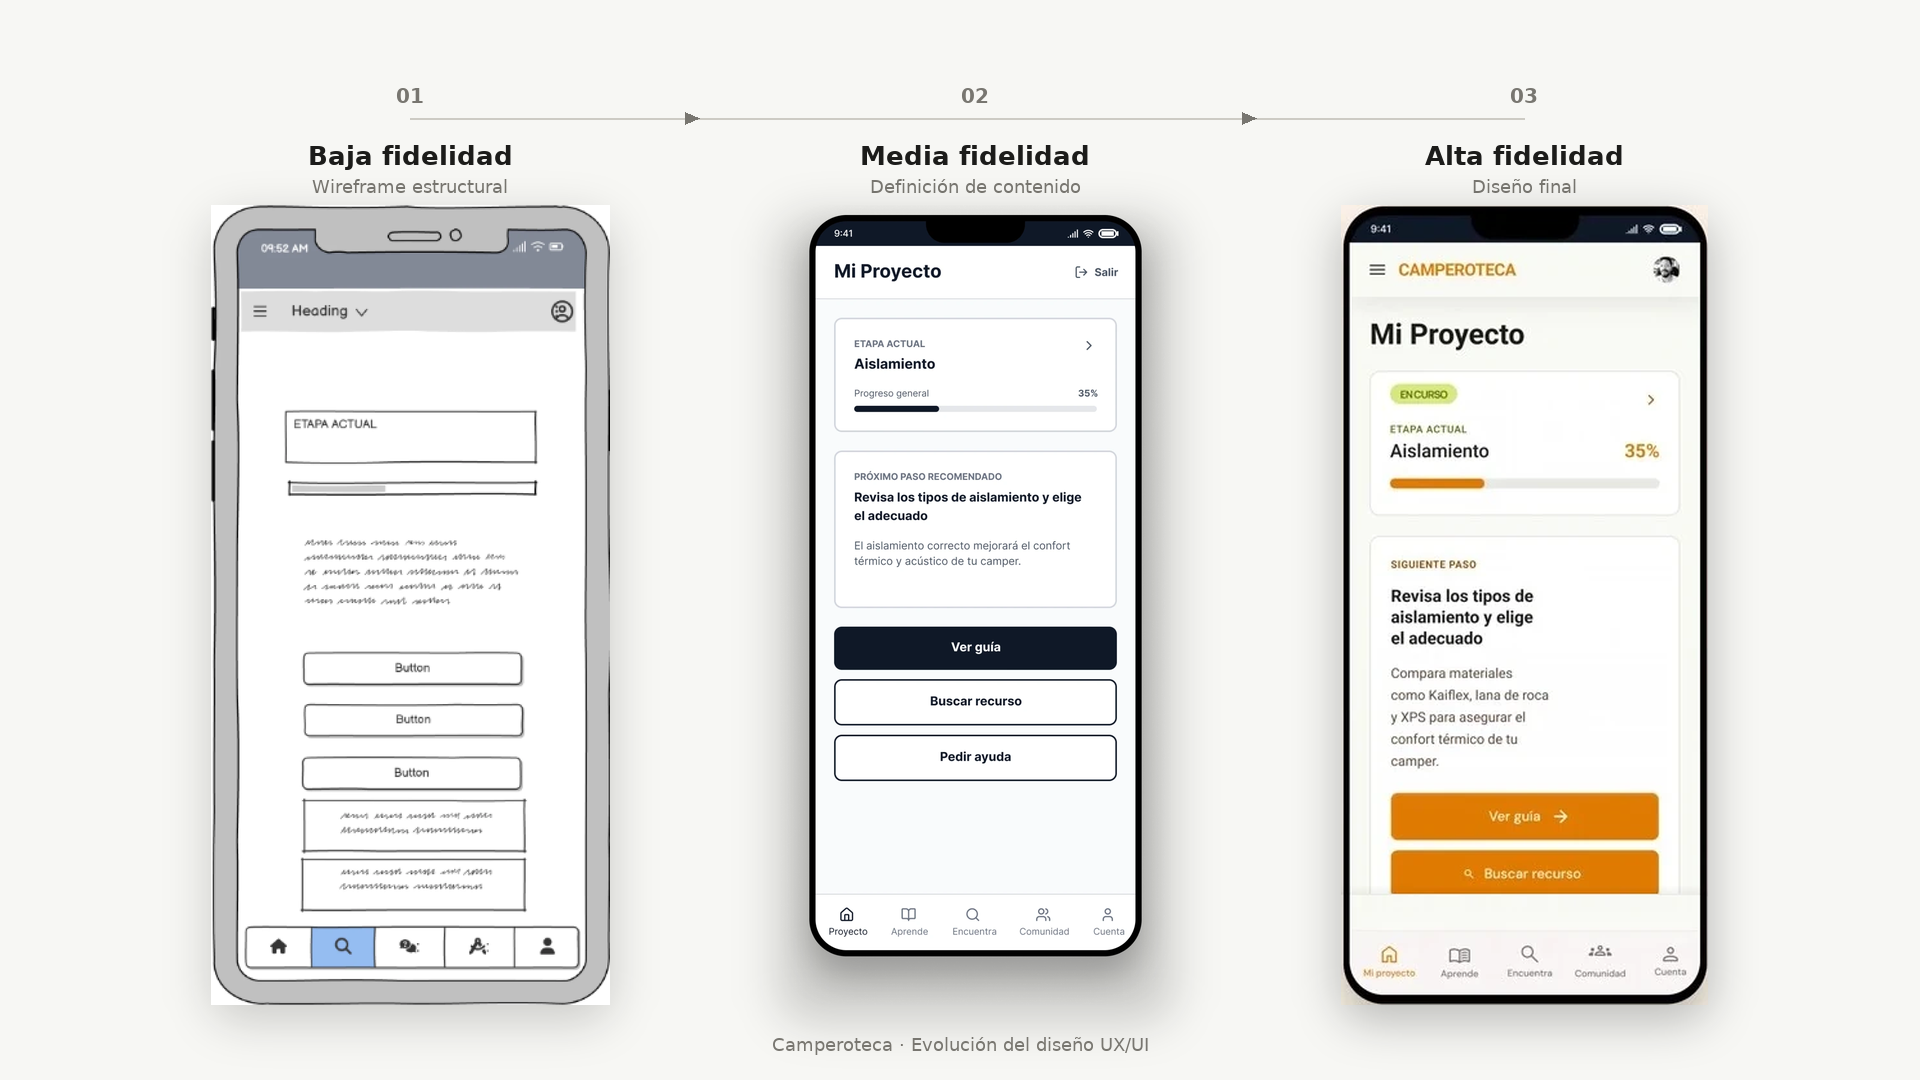
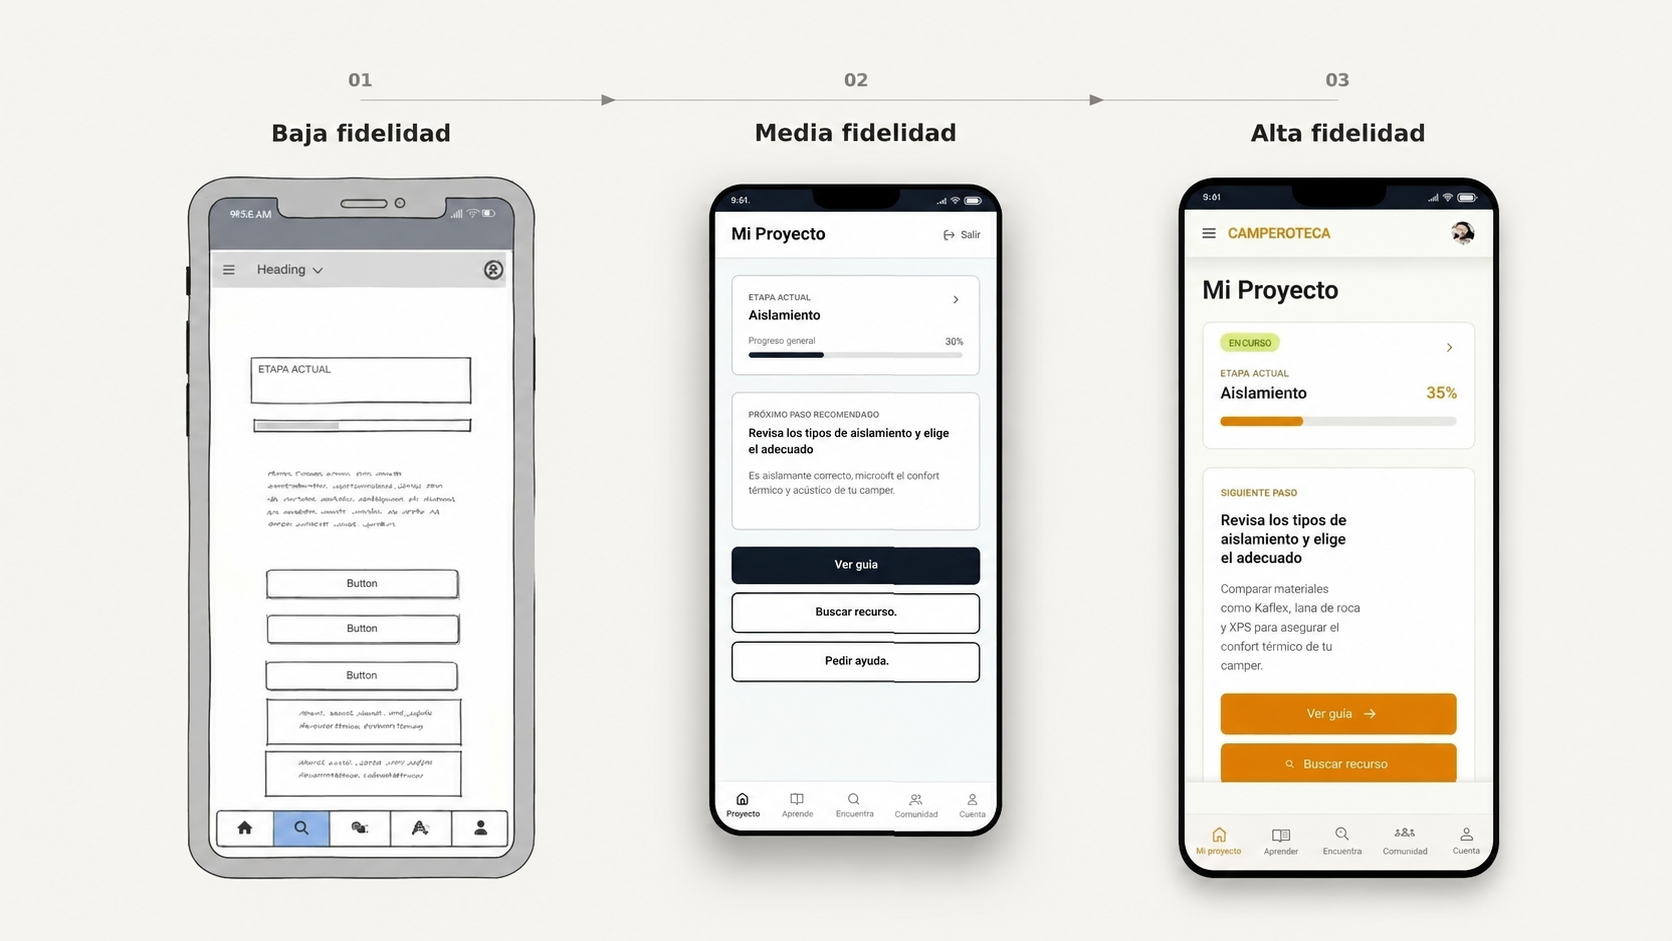
feat(camperoteca): replace wireframes image and add neutral background frame
Updated wireframes-hero.png with higher resolution version showing
baja/media/alta fidelidad progression. Added #F7F7F4 background
container with padding to absorb warm-tone difference between the
image background and the UI background color.

Claude-Session: https://claude.ai/code/session_01CQa4xash6mYWYEY8mbbWkX

Changed region(s): [[0.0933, 0.0616, 0.9019, 0.9554], [0.4043, 0.9554, 0.5909, 0.9862], [0.1866, 0.0616, 0.2177, 0.0925]]

diff --git a/app/[lang]/work/camperoteca/page.tsx b/app/[lang]/work/camperoteca/page.tsx
@@ -1039,13 +1039,13 @@ export default async function CamperotecaPage({ params }: Props) {
           </p>
         </Reveal>
         <Reveal delay={0.1}>
-          <div style={{ borderRadius: "10px", overflow: "hidden" }}>
+          <div style={{ borderRadius: "12px", overflow: "hidden", background: "#F7F7F4", padding: "1.5rem" }}>
             <Image
               src="/assets/camperoteca/wireframes-hero.png"
               alt="Evolución de wireframes: baja, media y alta fidelidad de las pantallas de Camperoteca"
               width={1920}
               height={1080}
-              style={{ width: "100%", height: "auto", display: "block" }}
+              style={{ width: "100%", height: "auto", display: "block", borderRadius: "8px" }}
             />
           </div>
         </Reveal>
